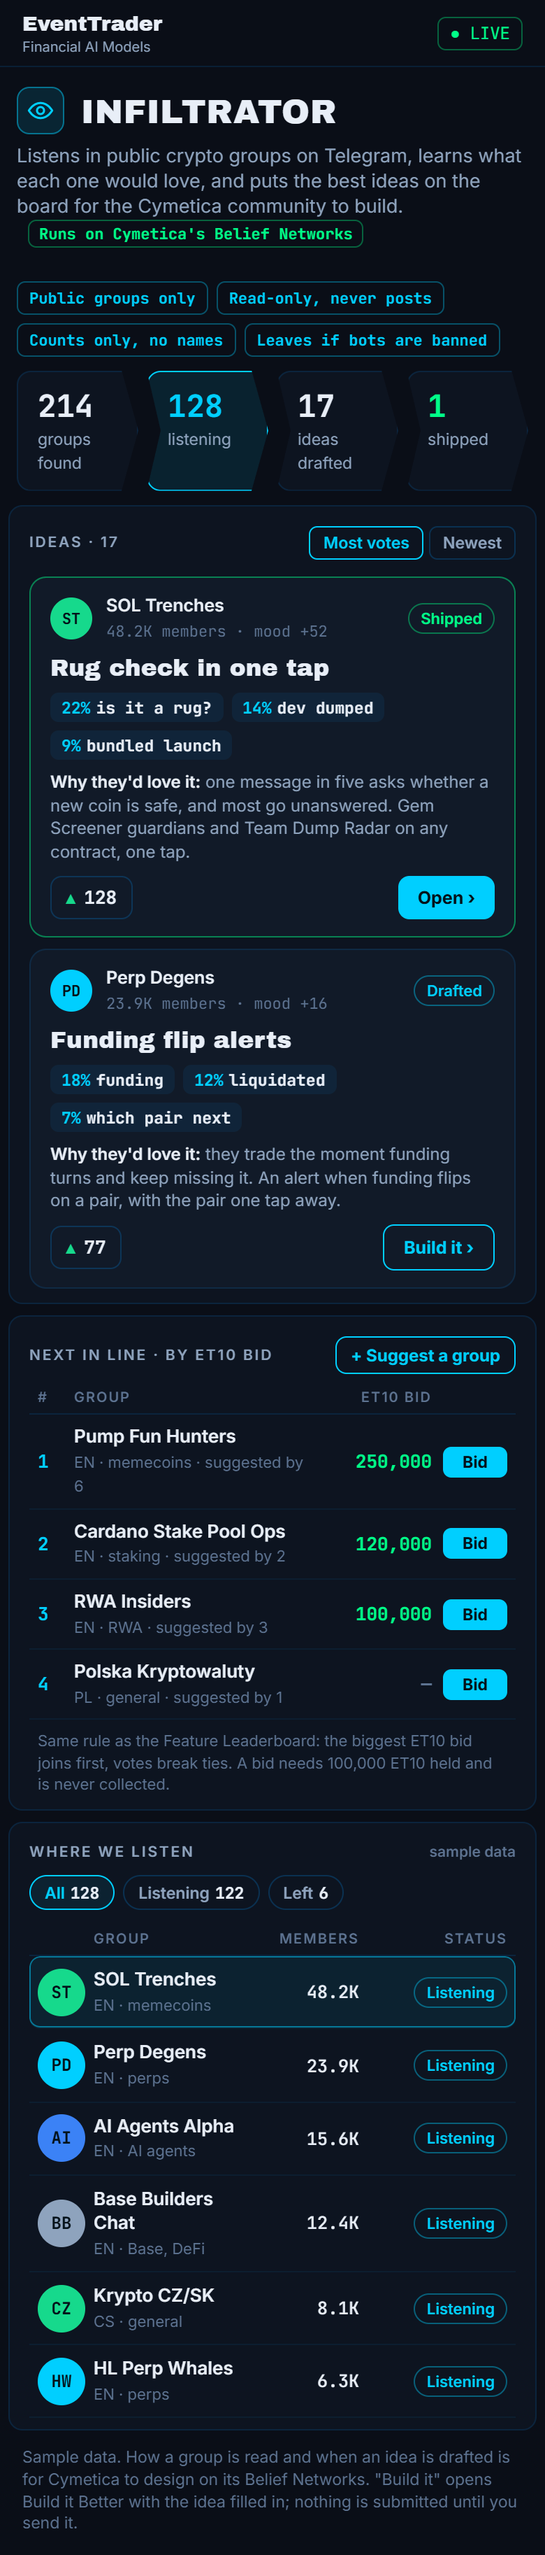
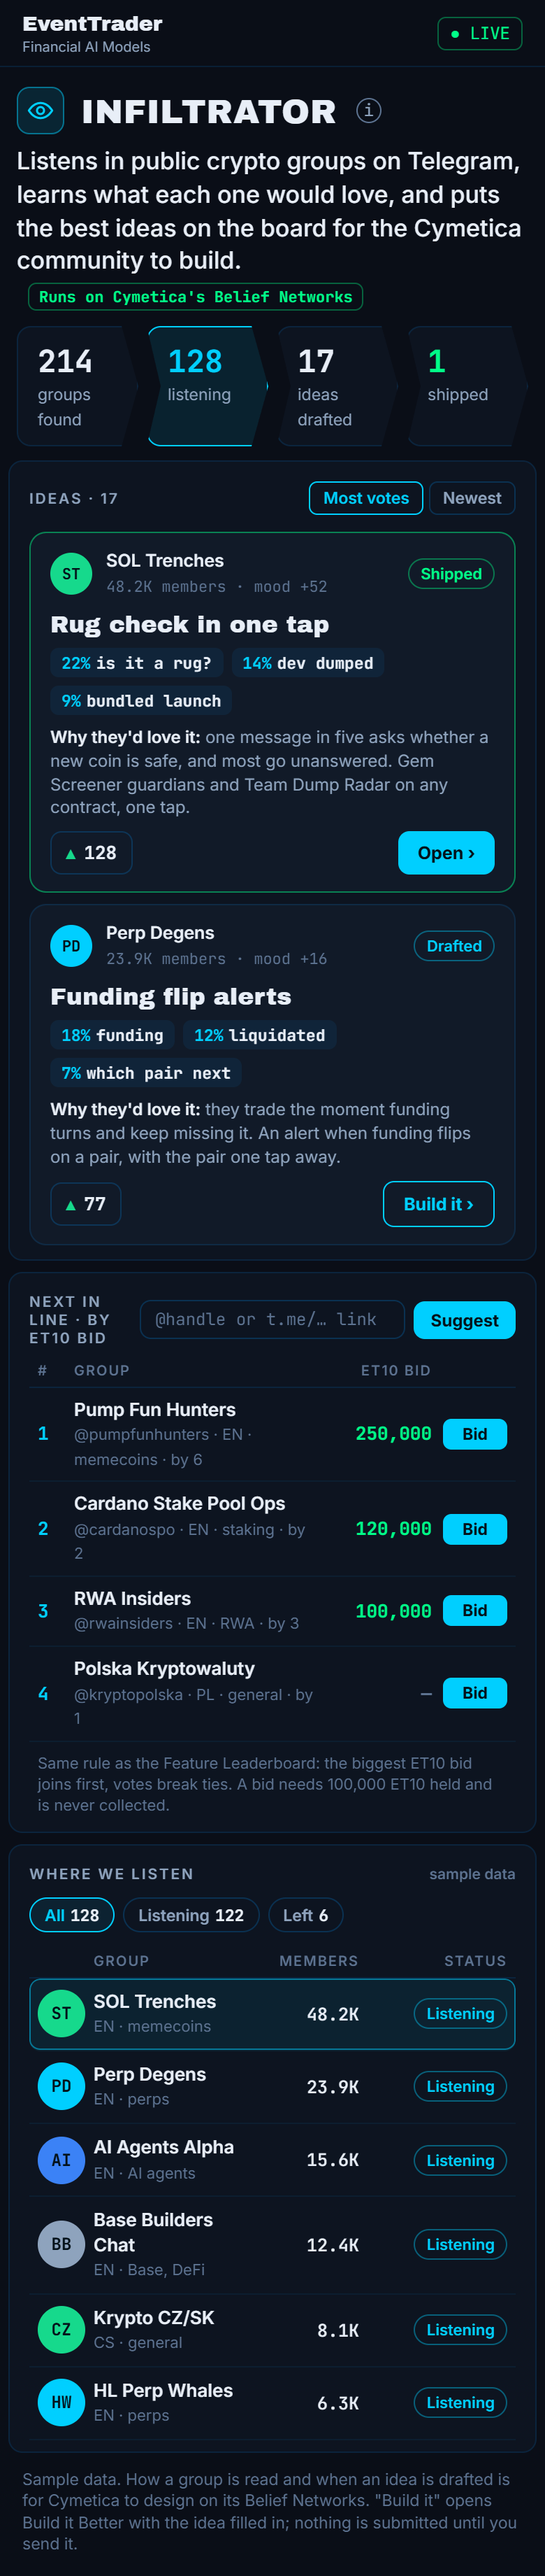
Infiltrator: rule chips into the title's (i), the tagline large, suggestions by Telegram @handle or t.me link
Effort: xhigh

diff --git a/outbox/infiltrator/mockup.html b/outbox/infiltrator/mockup.html
@@ -16,7 +16,8 @@ html,body{background:var(--bg);color:var(--text);font:13px/1.35 var(--ui)}
 .title h1{font:30px var(--head);letter-spacing:.5px;display:flex;align-items:center;gap:12px}
 .title h1 .eye{width:34px;height:34px;border-radius:9px;background:rgba(0,207,255,.12);border:1px solid rgba(0,207,255,.45);display:grid;place-items:center}
 .title h1 .eye svg{width:20px;height:20px;stroke:var(--cyan);fill:none;stroke-width:1.8}
-.title p{color:var(--dim);margin-top:6px;font-size:13.5px}
+.title p{color:var(--text);margin-top:8px;font-size:17px;font-weight:500;line-height:1.4;max-width:1100px}
+.ii{display:inline-grid;place-items:center;width:18px;height:18px;border:1px solid var(--faint);border-radius:50%;font:12px var(--mono);color:var(--dim);margin-left:2px;align-self:center}
 .pw{display:inline-block;margin-left:8px;font:600 11px var(--mono);color:var(--green);border:1px solid rgba(0,255,136,.35);border-radius:6px;padding:2px 7px}
 .rules{display:flex;gap:6px;flex-wrap:wrap;justify-content:flex-end}
 .rule{font:600 11px var(--mono);color:var(--cyan);border:1px solid rgba(0,207,255,.35);border-radius:6px;padding:4px 8px;white-space:nowrap}
@@ -32,7 +33,9 @@ html,body{background:var(--bg);color:var(--text);font:13px/1.35 var(--ui)}
 .leftcol{display:flex;flex-direction:column;gap:8px;min-height:0}
 .list{display:flex;flex-direction:column;min-height:0;flex:1;padding:14px 14px 8px}
 .queue{padding:14px 14px 10px}
-.sugg{font:700 12px var(--ui);color:var(--cyan);background:none;border:1px solid var(--cyan);border-radius:8px;padding:5px 10px}
+.suggest{display:flex;gap:6px;align-items:center}
+.inp{font:12px var(--mono);color:var(--faint);border:1px solid var(--line2);border-radius:8px;padding:5px 10px;min-width:190px}
+.sugg{font:700 12px var(--ui);color:#04121a;background:var(--cyan);border:0;border-radius:8px;padding:6px 12px}
 .qth,.qrow{display:grid;grid-template-columns:20px minmax(0,1fr) 56px 46px 72px 48px;gap:8px;align-items:center}
 .qth{font:600 10px var(--ui);color:var(--faint);letter-spacing:1px;text-transform:uppercase;padding:10px 6px 6px;border-bottom:1px solid var(--line)}
 .qth span:nth-child(n+3),.qrow>*:nth-child(n+3){text-align:right}
@@ -121,11 +124,8 @@ html,body{background:var(--bg);color:var(--text);font:13px/1.35 var(--ui)}
 
 <section class="top">
  <div class="title">
-  <h1><span class="eye"><svg viewBox="0 0 24 24"><path d="M2 12s3.6-6.5 10-6.5S22 12 22 12s-3.6 6.5-10 6.5S2 12 2 12z"/><circle cx="12" cy="12" r="3"/></svg></span>INFILTRATOR</h1>
+  <h1><span class="eye"><svg viewBox="0 0 24 24"><path d="M2 12s3.6-6.5 10-6.5S22 12 22 12s-3.6 6.5-10 6.5S2 12 2 12z"/><circle cx="12" cy="12" r="3"/></svg></span>INFILTRATOR<span class="ii" title="It joins public groups and channels as a visible read-only member. It never posts, never messages a member, keeps no usernames, phone numbers or message text, only themes and counts, and leaves a group whose rules forbid bots.">i</span></h1>
   <p>Listens in public crypto groups on Telegram, learns what each one would love, and puts the best ideas on the board for the Cymetica community to build. <span class="pw">Runs on Cymetica's Belief Networks</span></p>
- </div>
- <div class="rules" title="It joins public groups and channels as a visible read-only member. It never posts, never messages a member, keeps no usernames, phone numbers or message text, only themes and counts, and leaves a group whose rules forbid bots.">
-  <span class="rule">Public groups only</span><span class="rule">Read-only, never posts</span><span class="rule">Counts only, no names</span><span class="rule">Leaves if bots are banned</span>
  </div>
 </section>
 
@@ -139,13 +139,13 @@ html,body{background:var(--bg);color:var(--text);font:13px/1.35 var(--ui)}
 <main class="grid">
  <div class="leftcol">
  <section class="card queue">
-  <div class="lhead"><span class="h6">Next in line · by ET10 bid</span><button class="sugg">+ Suggest a group</button></div>
+  <div class="lhead"><span class="h6">Next in line · by ET10 bid</span><span class="suggest"><span class="inp">@handle or t.me/… link</span><button class="sugg">Suggest</button></span></div>
   <div class="qth"><span>#</span><span>Group</span><span>Members</span><span>Votes</span><span>ET10 bid</span><span></span></div>
   <ul class="qrows">
-   <li class="qrow"><span class="rk">1</span><span class="nm"><b>Pump Fun Hunters</b><em>EN · memecoins · suggested by 6</em></span><span class="mem">71.4K</span><span class="vt">▲ 42</span><span class="bid">250,000</span><button class="bidb">Bid</button></li>
-   <li class="qrow"><span class="rk">2</span><span class="nm"><b>Cardano Stake Pool Ops</b><em>EN · staking · suggested by 2</em></span><span class="mem">14.8K</span><span class="vt">▲ 17</span><span class="bid">120,000</span><button class="bidb">Bid</button></li>
-   <li class="qrow"><span class="rk">3</span><span class="nm"><b>RWA Insiders</b><em>EN · RWA · suggested by 3</em></span><span class="mem">9.2K</span><span class="vt">▲ 31</span><span class="bid">100,000</span><button class="bidb">Bid</button></li>
-   <li class="qrow"><span class="rk">4</span><span class="nm"><b>Polska Kryptowaluty</b><em>PL · general · suggested by 1</em></span><span class="mem">22.6K</span><span class="vt">▲ 9</span><span class="bid nob">—</span><button class="bidb">Bid</button></li>
+   <li class="qrow"><span class="rk">1</span><span class="nm"><b>Pump Fun Hunters</b><em>@pumpfunhunters · EN · memecoins · by 6</em></span><span class="mem">71.4K</span><span class="vt">▲ 42</span><span class="bid">250,000</span><button class="bidb">Bid</button></li>
+   <li class="qrow"><span class="rk">2</span><span class="nm"><b>Cardano Stake Pool Ops</b><em>@cardanospo · EN · staking · by 2</em></span><span class="mem">14.8K</span><span class="vt">▲ 17</span><span class="bid">120,000</span><button class="bidb">Bid</button></li>
+   <li class="qrow"><span class="rk">3</span><span class="nm"><b>RWA Insiders</b><em>@rwainsiders · EN · RWA · by 3</em></span><span class="mem">9.2K</span><span class="vt">▲ 31</span><span class="bid">100,000</span><button class="bidb">Bid</button></li>
+   <li class="qrow"><span class="rk">4</span><span class="nm"><b>Polska Kryptowaluty</b><em>@kryptopolska · PL · general · by 1</em></span><span class="mem">22.6K</span><span class="vt">▲ 9</span><span class="bid nob">—</span><button class="bidb">Bid</button></li>
   </ul>
   <div class="qnote">Same rule as the Feature Leaderboard: the biggest ET10 bid joins first, votes break ties. A bid needs 100,000 ET10 held and is never collected.</div>
  </section>

diff --git a/outbox/infiltrator/request.md b/outbox/infiltrator/request.md
@@ -12,9 +12,10 @@ On the form: "I have an idea", name **Infiltrator**, the block below, the three 
 Infiltrator: a new page that listens in public crypto groups on Telegram, learns what each community would love, and drafts ideas the Cymetica community can build to win those communities. Goals, not methods. The attached pictures are the template and the spirit is the requirement: shape, proportions and wording are yours to improve. Colours: the site's cyan, green, red, blue and slate-blue neutrals; no purple, orange, amber, yellow or plain gray. English, numbers before words.
 1. Built on your Belief Networks engine (the Animal Spirits meter, the Gem Screener's theme attention, the Product Trend Radar communities): Infiltrator adds communities to it and reads it per community; it does not build a second listener.
 2. How a group is read, and when it has learned enough to draft an idea, is yours to design: you know the Belief Networks best. Say on the page in one line what the rule is.
-3. Rules, shown as chips at the top: public groups and channels only; it never posts and never messages anyone; counts only, no names, handles or message text, as your engine publishes today; it leaves a group whose rules forbid bots.
+3. Rules, in the (i) beside the title, not as chips: public groups and channels only; it never posts and never messages anyone; counts only, no names, handles or message text, as your engine publishes today; it leaves a group whose rules forbid bots.
 4. Four steps across the top, numbers first: groups found, listening, ideas drafted, shipped.
-5. Next in line: anyone signed in can suggest a public group (link, language, topic). Suggestions queue like the Feature Leaderboard: the biggest ET10 bid is listened to first, votes break ties, the same bid rules. Each row: rank, name, members, votes, ET10 bid, a Bid button.
+5. Next in line: anyone signed in can suggest a public group by its Telegram @handle or t.me link, in one box in the queue's header; name, members and language are read from the group itself. Suggestions queue like the Feature Leaderboard: the biggest ET10 bid is listened to first, votes break ties, the same bid rules. Each row: rank, name and @handle, members, votes, ET10 bid, a Bid button.
+The tagline under the title is the first thing read: large and bright, not a grey caption.
 6. Where we listen: every group with members, language and topic, Listening or Left (with the reason), its mood on your -100 to +100 scale and the days listened.
 7. Ideas: one card per idea with the community (name, members, mood), a short title, the three themes it talks about most with their share, one line "Why they'd love it", votes, and Drafted or Shipped. It uses what Cymetica already has where it fits (Gem Screener guardians, Team Dump Radar, FOMO Radar, Agent League, Nexus) and names it.
 8. "Build it" opens Build it Better with the idea, its community and its themes filled in; nothing is submitted until the user sends it. A shipped idea links to the live page instead.
